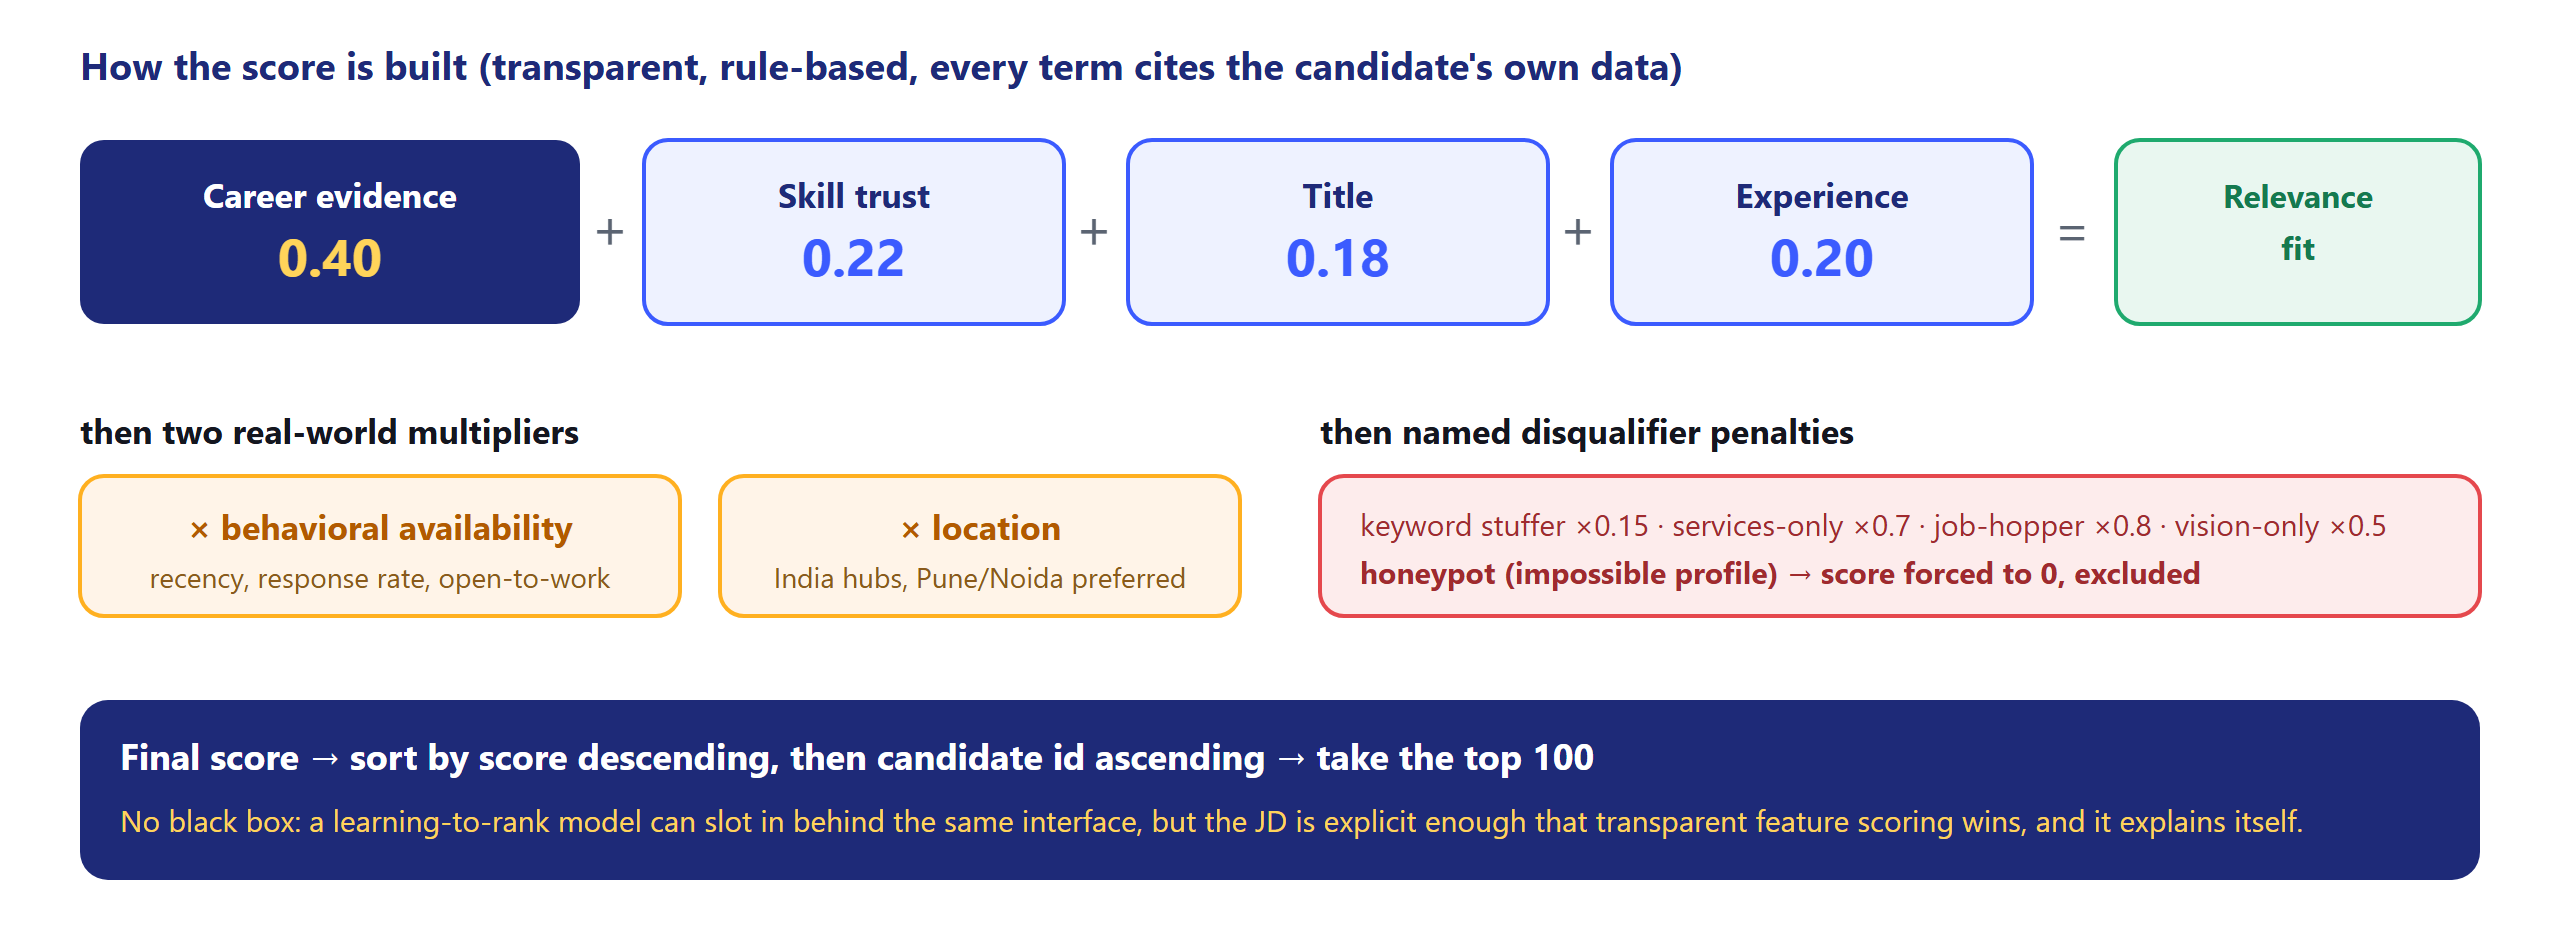
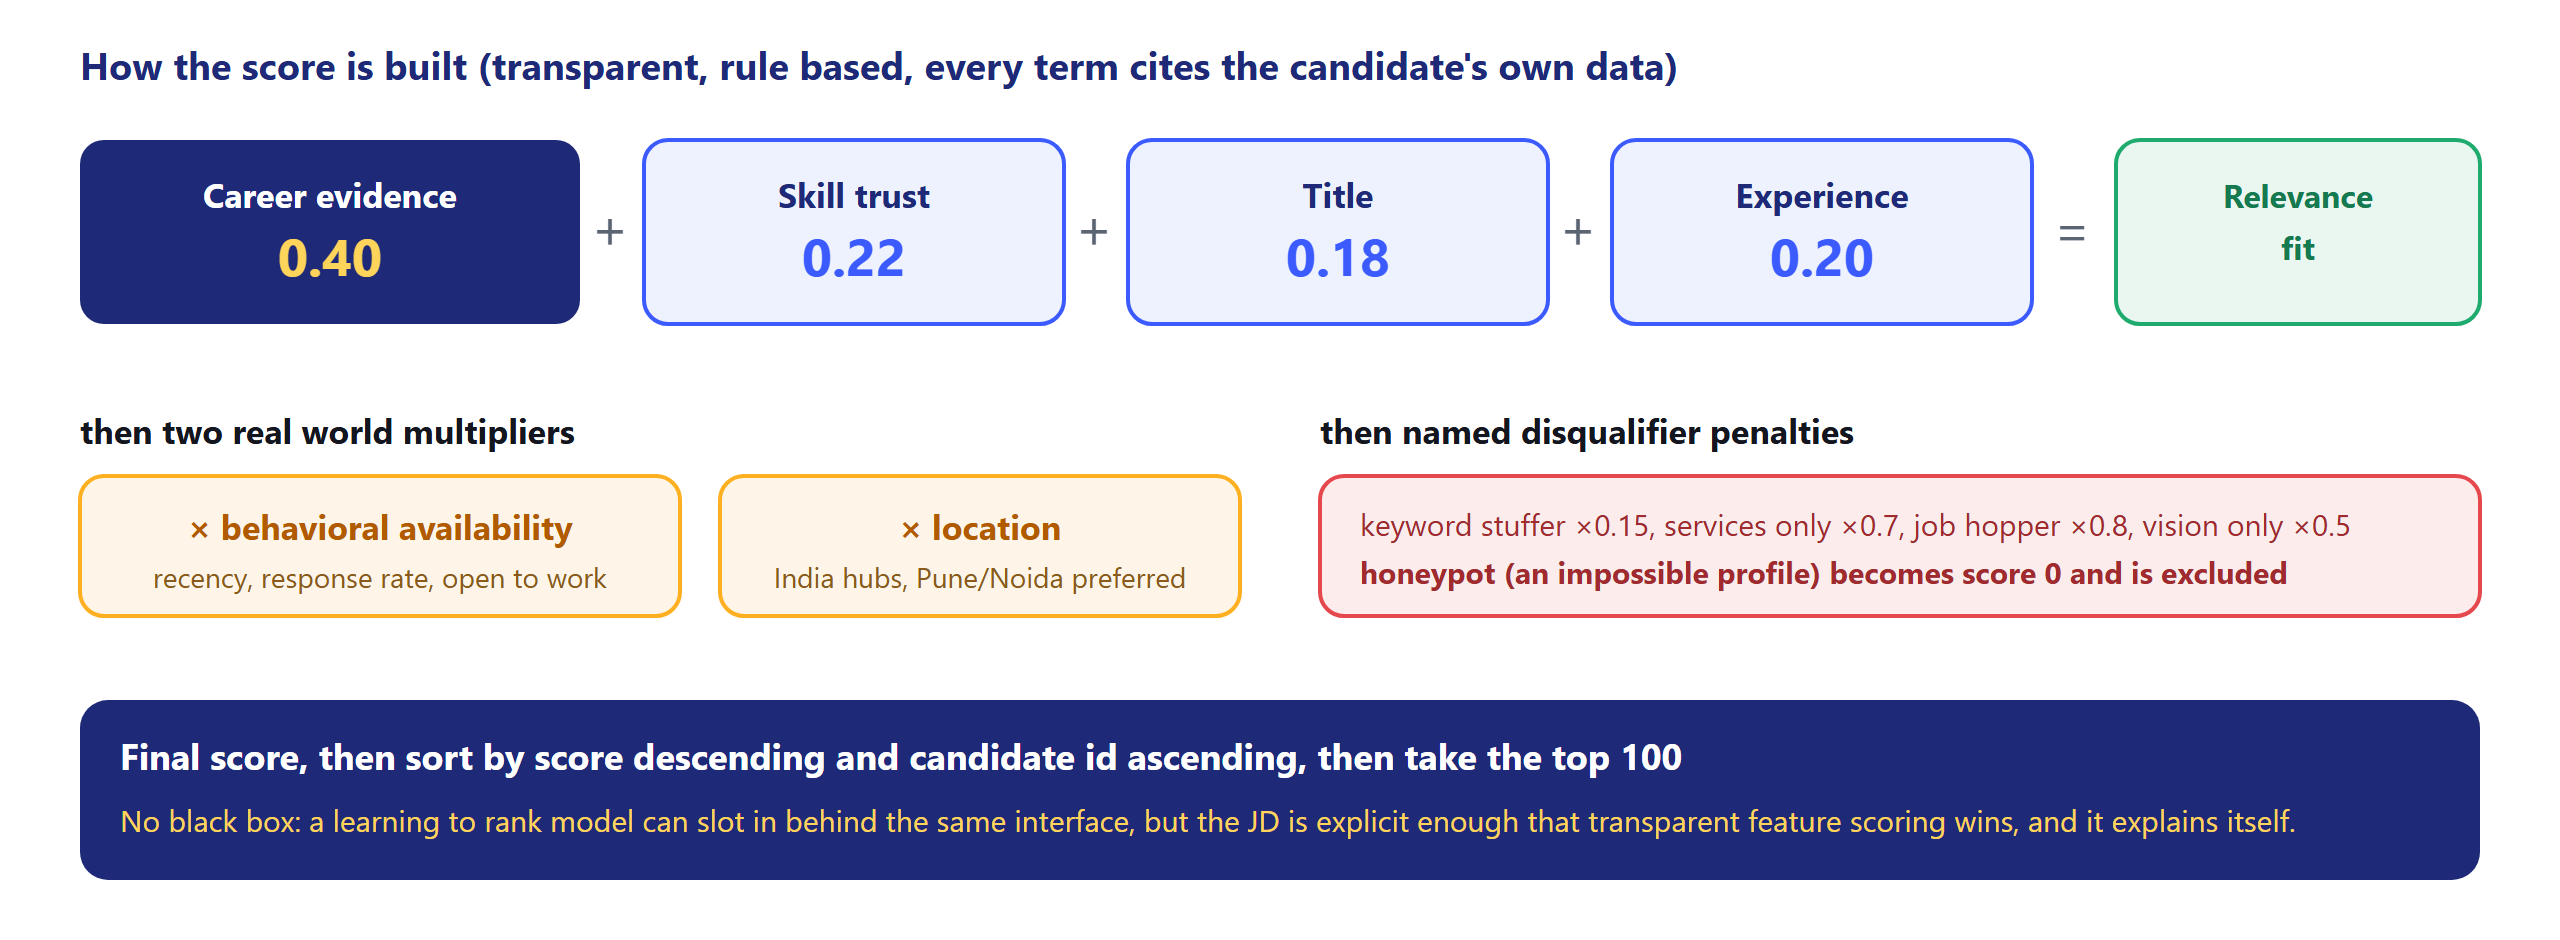
Polish the deck wording and fix a caption that was cut off

diff --git a/build_deck.py b/build_deck.py
@@ -30,42 +30,42 @@ IDENTITY = {
 # Slides answered in text (precise answers to every question on the slide).
 BODY = {
     "Solution Overview": [
-        "Khoj is an AI candidate-discovery engine that ranks the 100 best-fit candidates for the Senior "
+        "Khoj is an AI candidate discovery engine that ranks the 100 best fit candidates for the Senior "
         "AI Engineer role out of 100,000 profiles, with a grounded reason for every pick.",
         "It reads what each person actually built in their career history, not the keywords they pasted "
         "into a summary or skills list.",
-        "What differentiates it from traditional matching: keyword filters and embed-and-cosine systems "
-        "reward keyword stuffing and miss plainly-worded talent. Khoj instead scores demonstrated career "
-        "evidence over surface keywords, trust-weights skills by endorsements, time used and assessment "
+        "What differentiates it from traditional matching: keyword filters and embedding similarity systems "
+        "reward keyword stuffing and miss plainly worded talent. Khoj instead scores demonstrated career "
+        "evidence over surface keywords, weights skills by endorsements, time used and assessment "
         "scores, factors in whether a candidate is actually reachable, detects and excludes impossible "
         "\"honeypot\" profiles, and explains every decision.",
-        "It is transparent and fast: rule-based, the whole pool in under two minutes on a CPU with no "
+        "It is transparent and fast: rule based, the whole pool in under two minutes on a CPU with no "
         "network, where a system that calls a model per candidate cannot.",
     ],
     "JD Understanding & Candidate Evaluation": [
-        "Key requirements extracted from the JD: production embeddings and retrieval, vector-database or "
-        "hybrid-search operations, strong Python, ranking-evaluation literacy (NDCG, MRR, MAP), 6 to 8 "
+        "Key requirements extracted from the JD: production embeddings and retrieval, vector database or "
+        "hybrid search operations, strong Python, ranking evaluation literacy (NDCG, MRR, MAP), 6 to 8 "
         "years ideal, applied ML at product (not services) companies, an India hub or willingness to "
-        "relocate (Pune/Noida preferred), and a shipped end-to-end ranking, search or recommendation system.",
-        "Named disqualifiers we also read from the JD: keyword stuffers, services-only careers, title-"
-        "chasing job-hoppers, vision/speech-only without NLP or IR, and pure research without production.",
-        "Most important signals, and how we judge fit beyond keywords: career-history evidence of "
-        "retrieval/ranking/recsys work (weighted highest), trust-weighted skills, and behavioral "
+        "relocate (Pune/Noida preferred), and a shipped end to end ranking, search or recommendation system.",
+        "Named disqualifiers we also read from the JD: keyword stuffers, services only careers, title-"
+        "chasing job hoppers, vision/speech only without NLP or IR, and pure research without production.",
+        "Most important signals, and how we judge fit beyond keywords: career history evidence of "
+        "retrieval/ranking/recsys work (weighted highest), trust weighted skills, and behavioral "
         "availability. Because we read the demonstrated work, a strong candidate who built a recommendation "
         "system in plain words ranks high without the buzzwords, while a Marketing Manager who pasted AI "
         "skills ranks near zero.",
     ],
     "Technologies Used": [
-        "Python 3.12, standard library only in the ranking path (no third-party packages): chosen to meet "
+        "Python 3.12, standard library only in the ranking path (no third party packages): chosen to meet "
         "the 5-minute CPU reproduction limit, to scale to a real 200,000-plus pool, and so judges reproduce "
         "it with zero setup.",
-        "A custom word-boundary matcher, a hand-built skill ontology, and a transparent rule-based scorer: "
+        "A custom word boundary matcher, a hand built skill ontology, and a transparent rule based scorer: "
         "chosen over an embedding model because embeddings reward the keyword stuffing the JD warns about "
         "and cannot explain themselves.",
         "Streamlit for the hosted sandbox demo; pytest for the test suite, including a test that runs the "
         "organizers' own validator; Docker for reproducible Stage-3 runs; Git for authentic, incremental "
         "history.",
-        "No GPU, no network, and no per-candidate model calls anywhere in the ranking path, by design.",
+        "No GPU, no network, and no per candidate model calls anywhere in the ranking path, by design.",
     ],
     "Submission Assets": [
         "GitHub repository: TODO_repo_url  (public)",
@@ -79,10 +79,9 @@ BODY = {
 # Slides whose answer IS a diagram. Optional one-line caption above the image.
 IMAGES = {
     "Ranking Methodology": ("diagrams/scoring.png",
-        "Two stages, fully transparent: read demonstrated work, score four weighted components, refine with "
-        "two multipliers, apply named penalties, exclude honeypots, then sort."),
+        "The scoring is fully transparent, and every term reads from the candidate's own data."),
     "Explainability & Data Validation": ("diagrams/reasoning.png",
-        "Every pick is explained from the candidate's own fields; messy and impossible profiles are handled by construction."),
+        "Every pick is explained from the candidate's own data."),
     "End-to-End Workflow": ("diagrams/workflow.png", None),
     "System Architecture": ("diagrams/architecture.png", None),
     "Results & Performance": ("diagrams/results.png", None),
